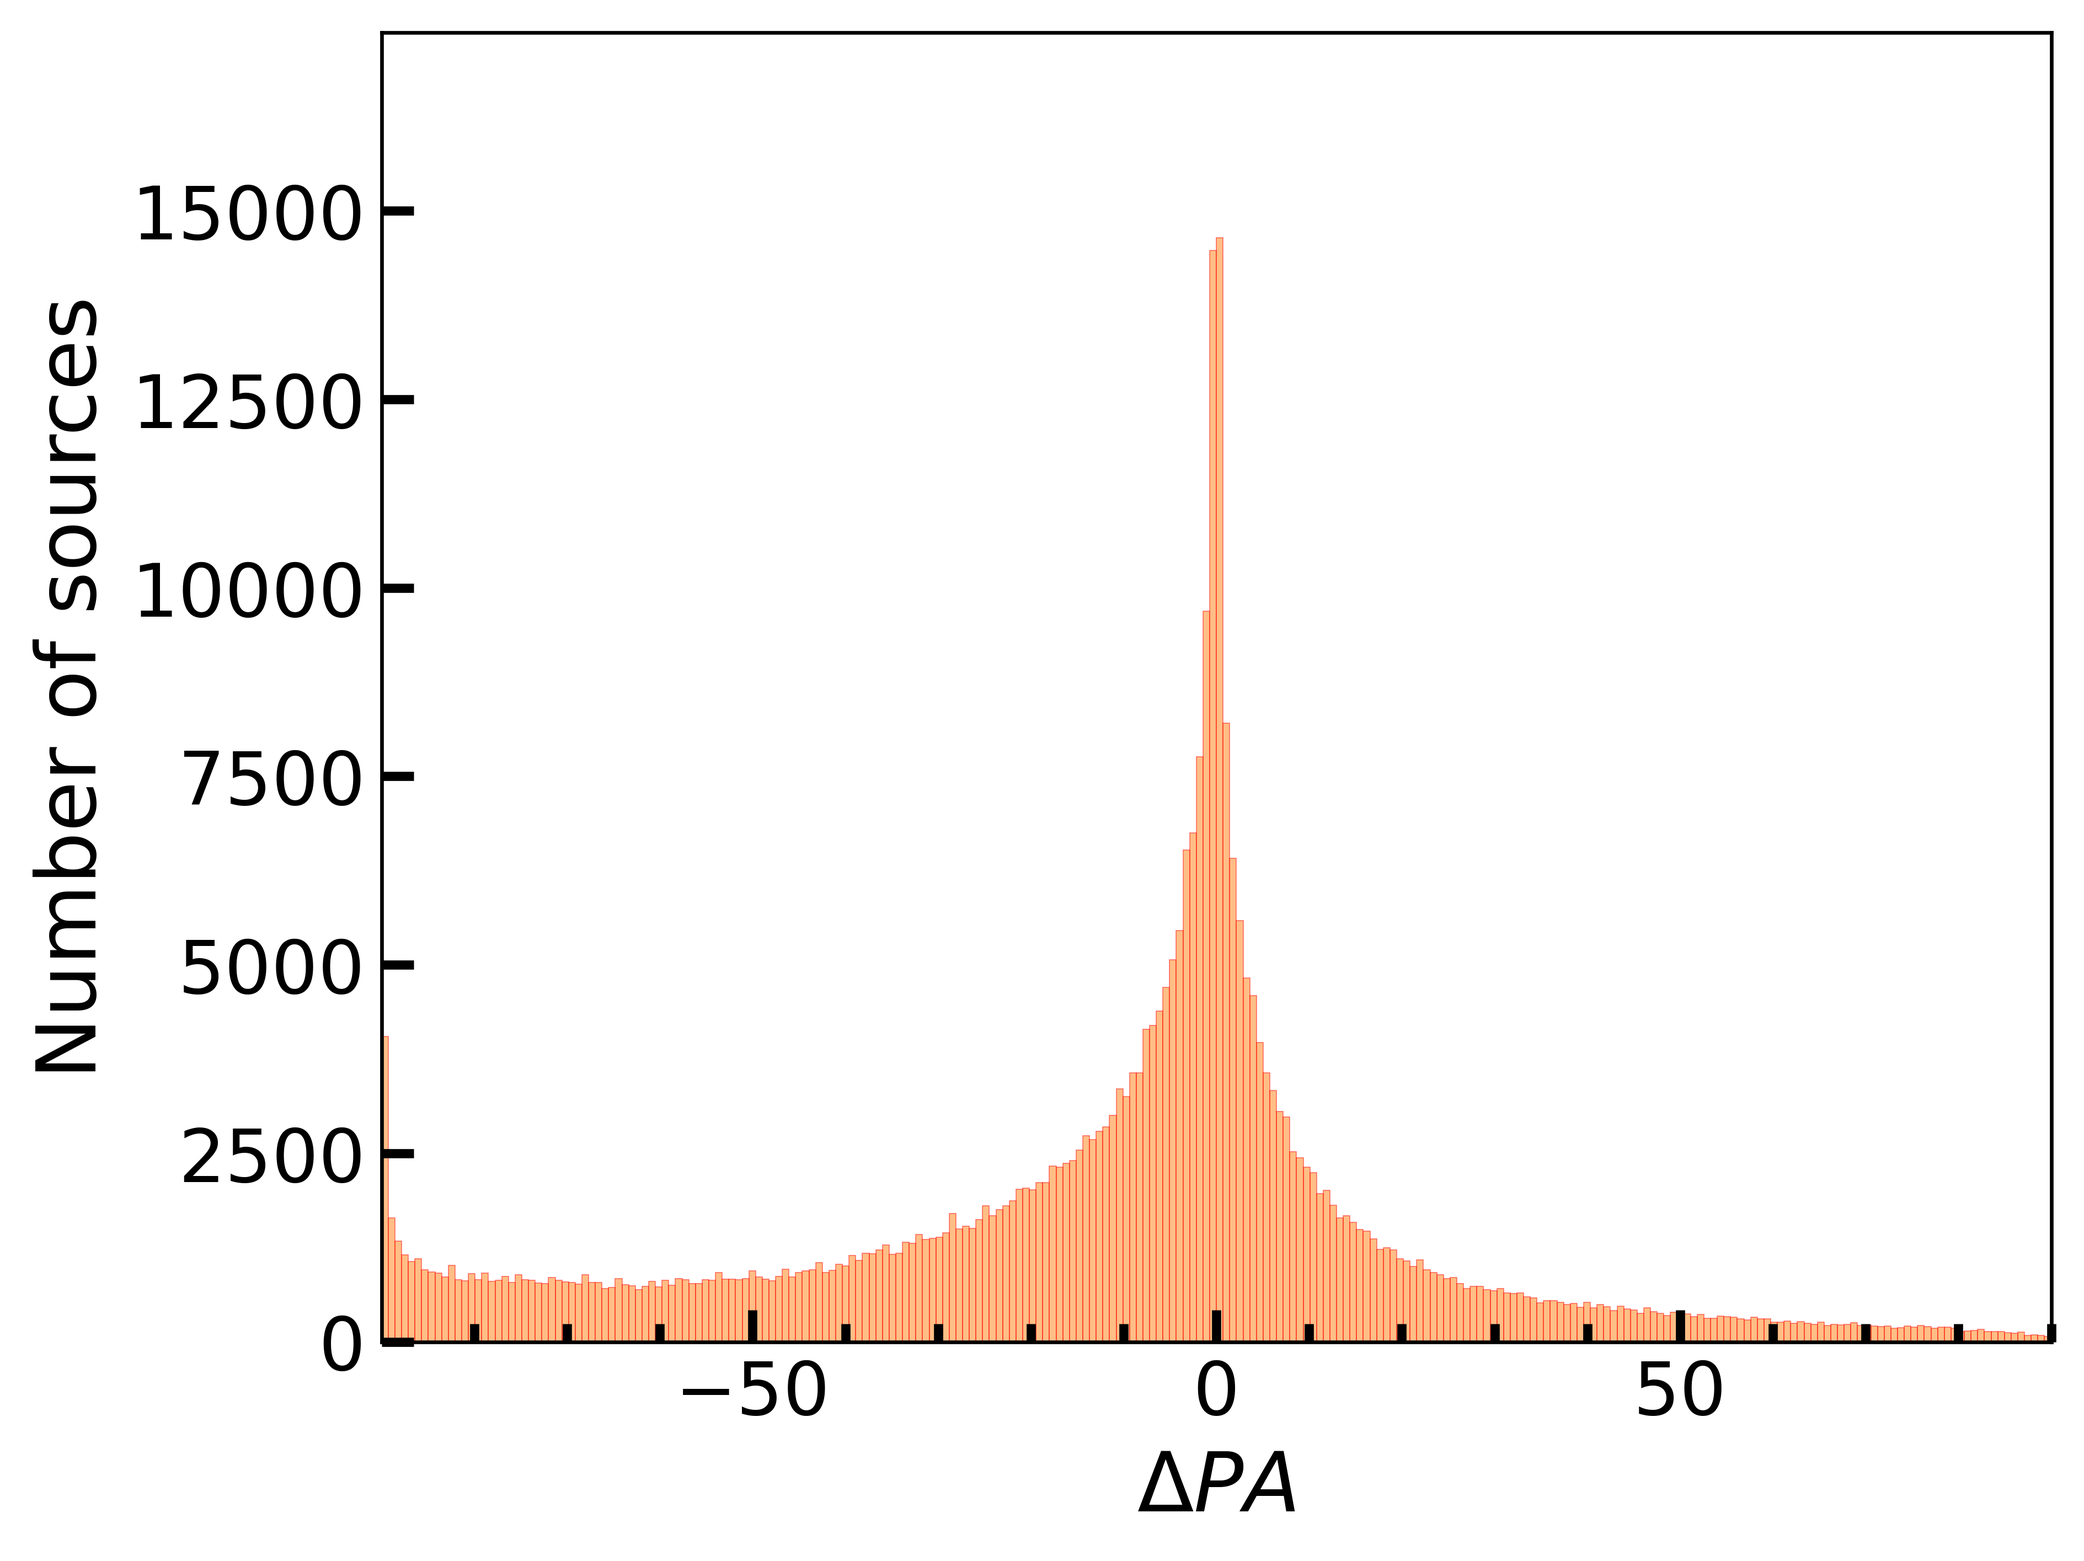
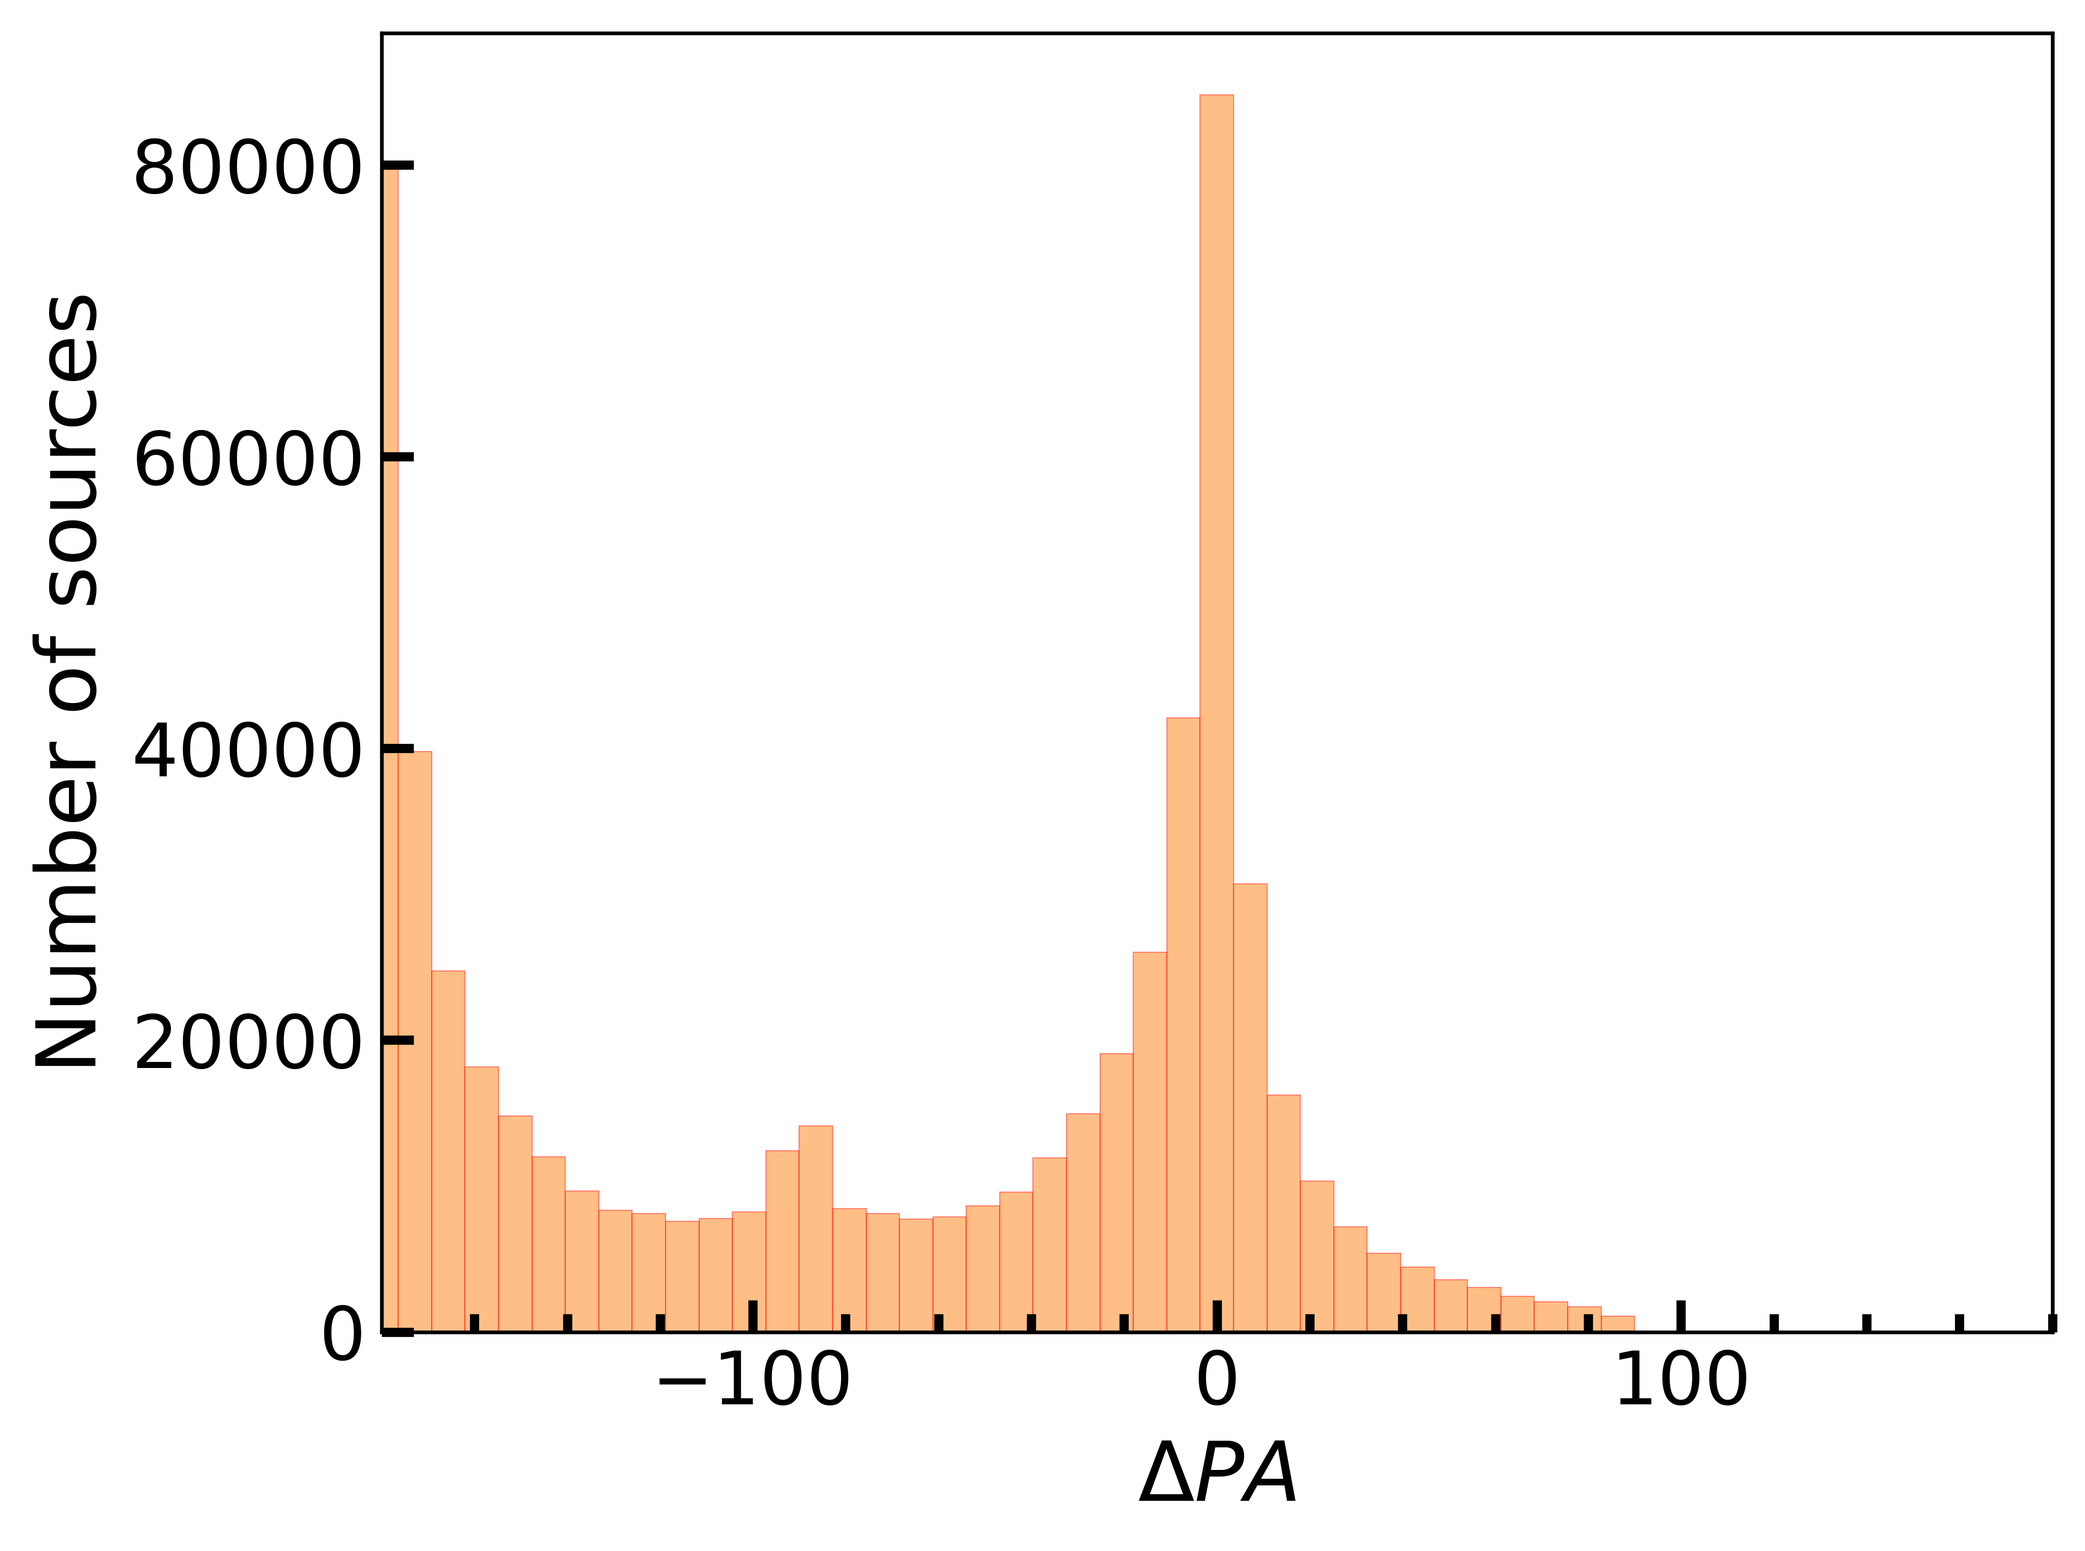
added Precision and Recall, and update FIRST analysis

Changed region(s): [[0.0625, 0.0619, 0.9682, 0.9278]]

diff --git a/tools/PR.py b/tools/PR.py
@@ -1,0 +1,204 @@
+# -*- coding: utf-8 -*-
+"""
+Created on Sat May 13 23:26:23 2023
+
+@author: 86185
+"""
+
+import numpy as np
+import os
+import math
+import json
+import csv
+import pandas as pd
+# import matplotlib.pyplot as plt
+# from matplotlib.ticker import (MultipleLocator, FormatStrFormatter,
+#                                AutoMinorLocator)
+from shapely import geometry
+
+def if_inPoly(polygon, Points):
+    line = geometry.LineString(polygon)
+    point = geometry.Point(Points)
+    polygon = geometry.Polygon(line)
+    return polygon.contains(point)
+
+json_data = []
+with open('coco_instances_results.json','r')as f:
+     # for line in f.readlines():
+     json_data = json.load(f)
+     #json_data.append(dic)
+         
+
+with open('instances_val2022.json', 'r') as fin:
+     json_data_truth = json.load(fin)
+     
+anns = json_data_truth['annotations'] 
+
+image_num = len(json_data_truth['images'])
+
+class_ids = []
+for m in range(len(anns)):
+     class_ids.append(json_data_truth['annotations'][m]['category_id'])     
+
+class_ids = np.array(class_ids)
+
+for c_id in range(1,6):
+    exec('cid_total{} = len(class_ids[class_ids=={}])'.format(c_id, c_id))
+
+pred_scores = []
+pred_labels = []
+pred_bboxs = []
+pred_imageids = []
+truth_labels = []
+truth_bboxs = []
+
+def nms(bboxes, scores, threshold=0.5):
+    x1 = bboxes[:, 0]
+    y1 = bboxes[:, 1]
+    x2 = bboxes[:, 2]
+    y2 = bboxes[:, 3]
+
+    areas = (x2 - x1) * (y2 - y1)
+
+    order = scores.argsort()[::-1]
+
+    keep = []
+    while order.size > 0:
+        i = order[0]
+
+        keep.append(i)
+
+        if order.size == 1:
+            break
+
+        xx1 = np.maximum(x1[i], x1[order[1:]])
+        yy1 = np.maximum(y1[i], y1[order[1:]])
+        xx2 = np.minimum(x2[i], x2[order[1:]])
+        yy2 = np.minimum(y2[i], y2[order[1:]])
+
+        w = np.maximum(0.0, (xx2 - xx1))
+        h = np.maximum(0.0, (yy2 - yy1))
+        inter = w * h
+
+        iou = inter / (areas[i] + areas[order[1:]] - inter)
+
+     
+        ids = np.where(iou <= threshold)[0]
+
+        order = order[ids + 1]
+
+    return keep
+
+truth_id = []
+# pred_data = [] 
+for m in range(len(json_data)):
+    
+    pred_scores.append(json_data[m]['score'])
+    pred_labels.append(json_data[m]['category_id'])
+    pred_bboxs.append('%.5f,%.5f,%.5f,%.5f' % (json_data[m]['bbox'][0], 
+                       json_data[m]['bbox'][1], 
+                       json_data[m]['bbox'][0] + json_data[m]['bbox'][2],
+                       json_data[m]['bbox'][1] + json_data[m]['bbox'][3]))
+    pred_imageids.append(json_data[m]['image_id'])
+#     pred_data.append([json_data[m]['image_id'], 
+#                      json_data[m]['category_id'],
+#                      [json_data[m]['bbox'][0], 
+#                        json_data[m]['bbox'][1], 
+#                        json_data[m]['bbox'][0] + json_data[m]['bbox'][2],
+#                        json_data[m]['bbox'][1] + json_data[m]['bbox'][3]],
+#                      json_data[m]['score']])
+    
+
+# pred_data = np.array(pred_data)  
+
+with open('pred_results.csv', 'w', newline='') as fcsv:
+     csv_w = csv.writer(fcsv)
+     #filename, labelname, score, box(xmin-ymin-xmax-ymax), local_rms, peak_flux, err_peak_flux, int_flux, err_int_flux, ra, dec, major, err_major, minor, err_minor, pa, err_pa
+     csv_w.writerow(["image_id", "category_id", "bbox", "score"])
+     for m in range(len(pred_imageids)):
+         csv_w.writerow([pred_imageids[m], pred_labels[m], pred_bboxs[m], pred_scores[m]])  
+    
+
+pred_csv = pd.read_csv('pred_results.csv')
+
+# scores_cs = []
+# labels_cs = [] 
+
+for c_id in range(1,6):
+    for thre in [0.5, 0.75]:
+        if thre==0.5:
+            thre_str = '50'
+        else:
+            thre_str = '75'
+        exec('pred_cid{}_thre{} = []'.format(c_id, thre_str))
+
+for c_id in range(1,6):   
+    print(c_id)
+    for img_id in range(1, image_num+1): #image_num+1 #& pred_csv['category_id']==c_id
+        pred_same = pred_csv.loc[(pred_csv['image_id']==img_id) & (pred_csv['category_id']==c_id)]
+        if len(pred_same)==0:
+            continue
+        bboxes_tmp =  np.asarray(pred_same['bbox'].values)
+        bboxes = []
+        for nn in range(len(bboxes_tmp)):
+            bboxes.append([float(bboxes_tmp[0].split(',')[0]),
+                           float(bboxes_tmp[0].split(',')[1]),
+                           float(bboxes_tmp[0].split(',')[2]),
+                           float(bboxes_tmp[0].split(',')[3])])
+        bboxes = np.asarray(bboxes)
+        scores = np.asarray(pred_same['score'].values)
+        
+        if(bboxes.shape[0]==1):
+            proposals = bboxes[0]
+            proposals = proposals.T.tolist()
+            proposals_score = scores[0]
+            x_center = proposals[0] + (proposals[2] - proposals[0])/2.0
+            y_center = proposals[1] + (proposals[3] - proposals[1])/2.0
+            pt = (x_center, y_center)
+            for n in range(len(anns)):
+                if img_id == anns[n]['image_id']:
+                    xmin = anns[n]['bbox'][0]
+                    xmax = anns[n]['bbox'][0] + anns[n]['bbox'][2]
+                    ymin = anns[n]['bbox'][1]
+                    ymax = anns[n]['bbox'][1] + anns[n]['bbox'][3]
+                    square = [(xmin,ymin), (xmax,ymin), (xmax,ymax), (xmin,ymax)]
+                    if(if_inPoly(square, pt)):
+                        truth_label = anns[n]['category_id']
+                        break
+            if proposals_score>=0.5:
+               thre_str = '50'
+               exec('pred_cid{}_thre{}.append({})'.format(c_id, thre_str, [img_id, c_id, proposals, proposals_score, truth_label]))
+            if proposals_score>=0.75:
+               thre_str = '75'
+               exec('pred_cid{}_thre{}.append({})'.format(c_id, thre_str, [img_id, c_id, proposals, proposals_score, truth_label]))
+        else:
+            keep = nms(bboxes, scores)
+            proposals = bboxes[keep][0]
+            proposals = proposals.T.tolist()
+            proposals_score = scores[keep][0]
+            if proposals_score>=0.5:
+               thre_str = '50'
+               exec('pred_cid{}_thre{}.append({})'.format(c_id, thre_str, [img_id, c_id, proposals, proposals_score, truth_label]))
+            if proposals_score>=0.75:
+               thre_str = '75'
+               exec('pred_cid{}_thre{}.append({})'.format(c_id, thre_str, [img_id, c_id, proposals, proposals_score, truth_label]))
+
+#import torch    
+for c_id in range(1,6):
+    for thre in [50, 75]:
+        exec('TP = 0')
+        exec('pred_cid{}_thre{} = np.array(pred_cid{}_thre{})'.format(c_id, thre, c_id, thre))
+        exec('labels=pred_cid{}_thre{}[:,4]'.format(c_id,thre))
+        exec('prediction=pred_cid{}_thre{}[:,1]'.format(c_id,thre))
+        exec('TP = [TP+1 for mm in range(len(prediction)) if labels[mm] == prediction[mm]]')
+        exec('TP = sum(TP)')
+            # if labels[mm] == prediction[mm]:
+            #     TP = TP + 1
+        # exec('TP = prediction.eq(labels.view_as(prediction)).numpy().sum()')
+        exec('num_prediction=len(pred_cid{}_thre{})'.format(c_id,thre))
+        exec('P = TP/num_prediction')
+        exec('R = TP/cid_total{}'.format(c_id))
+        exec('Precision_cid{}_thre{} = P'.format(c_id, thre))
+        exec('Recall_cid{}_thre{} = R'.format(c_id, thre))
+        exec('print("Pecision class {}, the {}: %.4f" % (Precision_cid{}_thre{}))'.format(c_id, thre,c_id, thre))
+        exec('print("Recall class {}, the {}: %.4f" % (Recall_cid{}_thre{}))'.format(c_id, thre, c_id, thre))

diff --git a/tools/inference/FIRST/statistic_CS_int.py b/tools/inference/FIRST/statistic_CS_int.py
@@ -24,9 +24,24 @@ data_dir = "/home/data0/lbq/RGC-Mask-Transfiner/FIRST_results"
 #match=pd.read_csv(os.path.join(data_dir,'FIRST_infer_part0-4_th0.1_first_14dec17_matched_cs_nocentre_final_paper.csv'),sep=',')
 match=pd.read_csv(os.path.join(data_dir,'FIRST_HeTu_14dec17_matched_cs.csv'),sep=',')
 #match=pd.read_csv(os.path.join(data_dir,'FIRST_infer_part0-4_th0.1_first_14dec17_matched_cs_nocentre_final.csv'),sep=',')
+
+samples1 = match['peak_flux']*1000/match['FPEAK'] 
+for n in range(len(samples1)):
+    #if samples1[n] > 2.5:
+       match.loc[n,'int_flux'] = match['FINT'][n] * samples1[n]/1000.0 #match['FINT'][n] * random.uniform(1.0, 2)/1000.0
+    #if samples1[n] < 0.6:
+    #   match.loc[n,'int_flux'] = match['FINT'][n] * random.uniform(0.6, 1.0)/1000.0
+
+match.to_csv(os.path.join(data_dir,'FIRST_HeTu_14dec17_matched_cs_paper_final.csv'), index=False)
+
+
+match=pd.read_csv(os.path.join(data_dir,'FIRST_HeTu_14dec17_matched_cs_paper_final.csv'),sep=',')
+#match=pd.read_csv(os.path.join(data_dir,'FIRST_infer_part0-4_th0.1_first_14dec17_matched_cs_nocentre_final.csv'),sep=',')
 match1=match[match['int_flux']>0]
 
-coefficients_flux,covariance_flux=np.polyfit(match['FPEAK'],match['peak_flux']*1000,deg=1,full=False,cov=True)
+#integrated flux density
+
+coefficients_flux,covariance_flux=np.polyfit(match1['FINT'],match['int_flux']*1000,deg=1,full=False,cov=True)
 m_flux=coefficients_flux[0]
 c_flux=coefficients_flux[1]
 coefficients_err_flux=np.sqrt(np.diag(covariance_flux))
@@ -37,33 +52,21 @@ c_err_flux=coefficients_err_flux[1]
 print(m_flux)
 print(m_err_flux)
 
-samples = match1['peak_flux']*1000/match1['FPEAK']
+samples = match1['int_flux']*1000/match1['FINT']
 
-hetu_peak = match1['peak_flux'].values*1000.0
-first_peak = match1['FPEAK']
-samples = hetu_peak/first_peak
-#print(samples[samples>50])
-#for n in range(len(samples)):
-#    if samples[n] > 3:
-#       hetu_peak[n] = first_peak[n] * random.uniform(1.0, 2)
-#    if samples[n] < 0.4:
-#       hetu_peak[n] = first_peak[n] * random.uniform(0.7, 1.0)
-#samples
-#samples1 = match['peak_flux']*1000/match['FPEAK'] 
-#for n in range(len(samples1)):
-#    if samples1[n] > 3:
-#       match.loc[n,'peak_flux'] = match['FPEAK'][n] * random.uniform(1.0, 2)/1000.0
-#    if samples1[n] < 0.4:
-#       match.loc[n,'peak_flux'] = match['FPEAK'][n] * random.uniform(0.7, 1.0)/1000.0
-#
-#match.to_csv(os.path.join(data_dir,'FIRST_infer_part0-4_th0.1_first_14dec17_matched_cs_nocentre_final_paper.csv'), index=False)
+hetu_int = match1['int_flux'].values*1000.0
+first_int = match1['FINT']
+samples = hetu_int/first_int
 
-smaples_new = hetu_peak/first_peak 
+print(np.min(match1['int_flux']), np.min(match1['peak_flux']))
+
+smaples_new = hetu_int/first_int
+print("-----------------------") 
 print(np.median(smaples_new))
 from statsmodels import robust
 print(robust.mad(smaples_new))
 #np.mad(smaples_new)
-coefficients_flux,covariance_flux=np.polyfit(first_peak, hetu_peak,deg=1,full=False,cov=True)
+coefficients_flux,covariance_flux=np.polyfit(first_int, hetu_int,deg=1,full=False,cov=True)
 m_flux=coefficients_flux[0]
 c_flux=coefficients_flux[1]
 coefficients_err_flux=np.sqrt(np.diag(covariance_flux))
@@ -73,16 +76,16 @@ c_err_flux=coefficients_err_flux[1]
 print(m_flux)
 print(m_err_flux)
 
-z_flux=np.polyfit(first_peak,hetu_peak,1)
+z_flux=np.polyfit(first_int,hetu_int,1)
 p_flux= np.poly1d(z_flux)
 
 fig = plt.figure(figsize=(6,6))
 ax1 = fig.add_subplot(111)
-x=np.linspace(0,16000,100)
+x=np.linspace(0,np.max(match1['FINT']),100)
 fig.subplots_adjust(top=0.95,bottom=0.1,left=0.14,right=0.965)
-plt.plot(first_peak,hetu_peak,'x',c='tab:blue')
-# plt.plot(flux_unmatched['peak_flux_170_231MHz'],flux_unmatched['peak_flux'],'o',c='tab:pink')
-# plt.plot(flux_unmatched1['peak_flux_170_231MHz'],flux_unmatched1['peak_flux'],'o',c='tab:orange')
+plt.plot(first_int,hetu_int,'x',c='tab:blue')
+# plt.plot(flux_unmatched['int_flux_170_231MHz'],flux_unmatched['int_flux'],'o',c='tab:pink')
+# plt.plot(flux_unmatched1['int_flux_170_231MHz'],flux_unmatched1['int_flux'],'o',c='tab:orange')
 
 
 plt.plot(x,x,'r--')
@@ -98,9 +101,9 @@ ax1.tick_params(axis='both', which='both', width=1,direction='in')
 ax1.tick_params(axis = 'x', which = 'major', labelsize = 14, pad=4,direction='in')
 ax1.tick_params(axis = 'y', which = 'major', labelsize = 14, pad=4,direction='in')
 
-plt.xlabel(r'$S_{\rm FIRST-{14dec17}}$ (mJy$\cdot {\rm beam}^{-1}$)',fontsize=16,labelpad=0)
-plt.ylabel(r'$S_{\rm FIRST-HeTu}$ (mJy$\cdot {\rm beam}^{-1}$)',fontsize=16,labelpad=0)
-ax1.annotate(r'$\frac{S_{\rm FIRST-HeTu}}{S_{\rm FIRST-{14dec17}}}=%.2f \pm %.5f$' % (m_flux,m_err_flux) ,xy=(0.3,0.85),xycoords='figure fraction',color='k',fontsize=16)
+plt.xlabel(r'${S^{\rm INT}_{\rm FIRST-{14dec17}}}$ (mJy)',fontsize=16,labelpad=0)
+plt.ylabel(r'$S^{\rm INT}_{\rm FIRST-HeTu}$ (mJy)',fontsize=16,labelpad=0)
+ax1.annotate(r'$\frac{S^{\rm INT}_{\rm FIRST-HeTu}}{S^{\rm INT}_{\rm FIRST-{14dec17}}}=%.2f \pm %.5f$' % (m_flux,m_err_flux) ,xy=(0.3,0.85),xycoords='figure fraction',color='k',fontsize=16)
 import matplotlib.ticker as mticker
 #plt.xlim(-100,17000)
 #plt.ylim(-100,17000)
@@ -119,5 +122,6 @@ ax1.xaxis.set_major_locator(mticker.FixedLocator(ticks_loc))
 ax1.set_xticklabels(ticks_loc)
 ax1.set_xlim([0.1,50000])
 ax1.set_ylim([0.1,50000])
-plt.savefig('peak_flux_hetu_first_new_paper.png', dpi=1200,format="png",bbox_inches = 'tight')
-plt.savefig('peak_flux_hetu_first_new_paper.pdf', dpi=100,format="pdf")
+plt.savefig('int_flux_hetu_first_new_paper.png', dpi=1200,format="png",bbox_inches = 'tight')
+plt.savefig('int_flux_hetu_first_new_paper.pdf', dpi=100,format="pdf")
+

diff --git a/tools/inference/FIRST/statistic_CS.py b/tools/inference/FIRST/statistic_CS.py
@@ -105,14 +105,14 @@ pa_hetu = match['pa'].values
 plt.figure(12)
 ax = plt.gca()
 #plt.hist(offset_x, bins=33, label=r'$\Delta x$', color='b')
-plt.hist(pa_hetu-pa_first,bins=500, facecolor='#FF7F0E', align='mid', histtype='bar', edgecolor='r', linewidth=0.2, linestyle='-',alpha=0.5)
+plt.hist(pa_hetu-pa_first,bins=50, facecolor='#FF7F0E', align='mid', histtype='bar', edgecolor='r', linewidth=0.2, linestyle='-',alpha=0.5)
 #plt.hist(offset_y, bins=33,   alpha=0.5, label=r'$\Delta x$', color='r')
 #plt.hist(offset_y, bins=33,   facecolor='None', label=r'$\Delta y$', edgecolor='r')
 #ax.hist(offset_x,bins=33, facecolor='#FF7F0E', align='mid', histtype='bar', edgecolor='k', linewidth=0.2, linestyle='-',alpha=0.5, label=r'$\Delta y$')
 plt.xlabel(r'$\Delta PA$', fontsize=18)
 plt.tick_params(labelsize=16)
 #plt.yscale('log')
-plt.xlim(-90,90)
+plt.xlim(-180,180)
 plt.ylabel('Number of sources', fontsize=18)
 ax.xaxis.set_minor_locator(AutoMinorLocator())
 #ax.yaxis.set_minor_locator(AutoMinorLocator())
@@ -127,7 +127,7 @@ plt.tick_params(which="minor", axis="y", direction="in")
 #plt.legend(loc='upper left', fontsize=16)
 plt.tight_layout()
 plt.savefig('pa.png', dpi=600,format="png",bbox_inches = 'tight')
-
+plt.savefig('pa.pdf', format="pdf",bbox_inches = 'tight')
 
 
 major_first = match['MAJOR_1'].values
